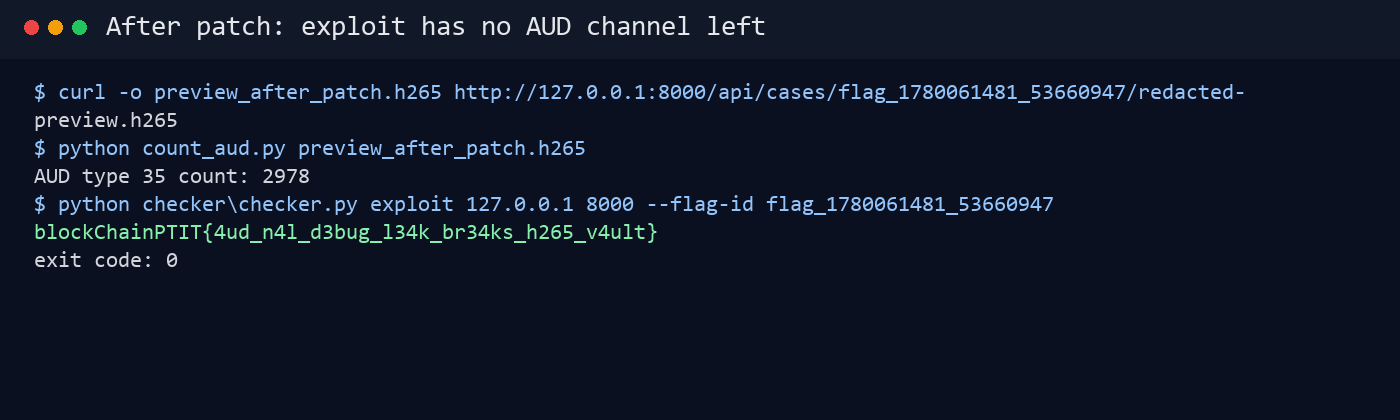
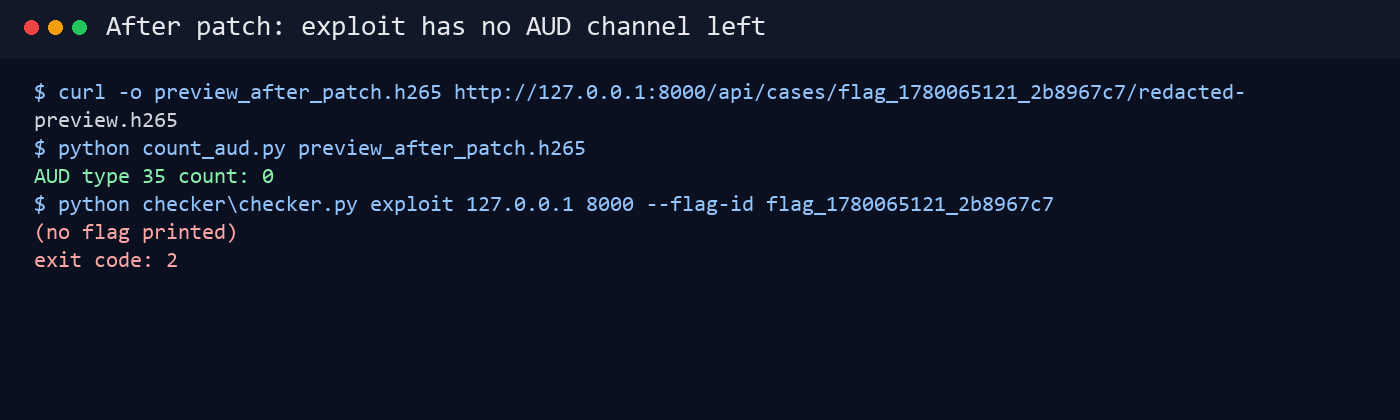
Fix H265 defense exploit blocked evidence

diff --git a/attack_defense_stego/01_h265_nal_vault_ad/solution/DEFENSE.md b/attack_defense_stego/01_h265_nal_vault_ad/solution/DEFENSE.md
@@ -310,25 +310,3 @@ Bản vá strip AUD là đủ cho bài CTF. Trong sản phẩm thật, nên làm
 - Mã hóa marker bằng key server-side nếu bắt buộc phải nhúng.
 - Thêm log và rate limit cho `/api/cases/<id>/redacted-preview.h265`.
 - Rotate marker/flag đã bị lộ sau khi deploy bản vá.
-
-## 11. Ảnh chụp đã kèm
-
-Các ảnh minh họa đã được lưu trong `solution/screenshots/`:
-
-- `defense-01-before-exploit-leaks-flag.png`: exploit lấy được flag trước vá.
-- `defense-02-vulnerable-preview-code.png`: `_preview_bitstream` copy mọi NAL.
-- `defense-03-patched-preview-code.png`: preview bỏ `nal_type(nal) == 35`.
-- `defense-04-checker-ok-after-patch.png`: checker `check` trả `OK`.
-- `defense-05-get-ok-after-patch.png`: `put/get` vẫn đọc marker hợp lệ.
-- `defense-06-exploit-blocked.png`: exploit không còn in flag.
-
-## 12. Tóm tắt để đưa vào báo cáo
-
-```text
-Lỗi nằm ở public redacted preview. Preview được xem là an toàn vì hình ảnh CCTV
-đã redact, nhưng backend copy nguyên AUD NAL type 35 từ evidence carrier. Marker
-được giấu trong chuỗi AUD bằng decoy, Manchester và XOR theo case id; các lớp
-này chỉ làm attack khó hơn, không ngăn leak vì case id public. Defense strip AUD
-type 35 khỏi preview, giữ các frame preview còn lại, nên dashboard và /api/store
-/api/read vẫn hoạt động trong khi attacker không còn dữ liệu để khôi phục flag.
-```